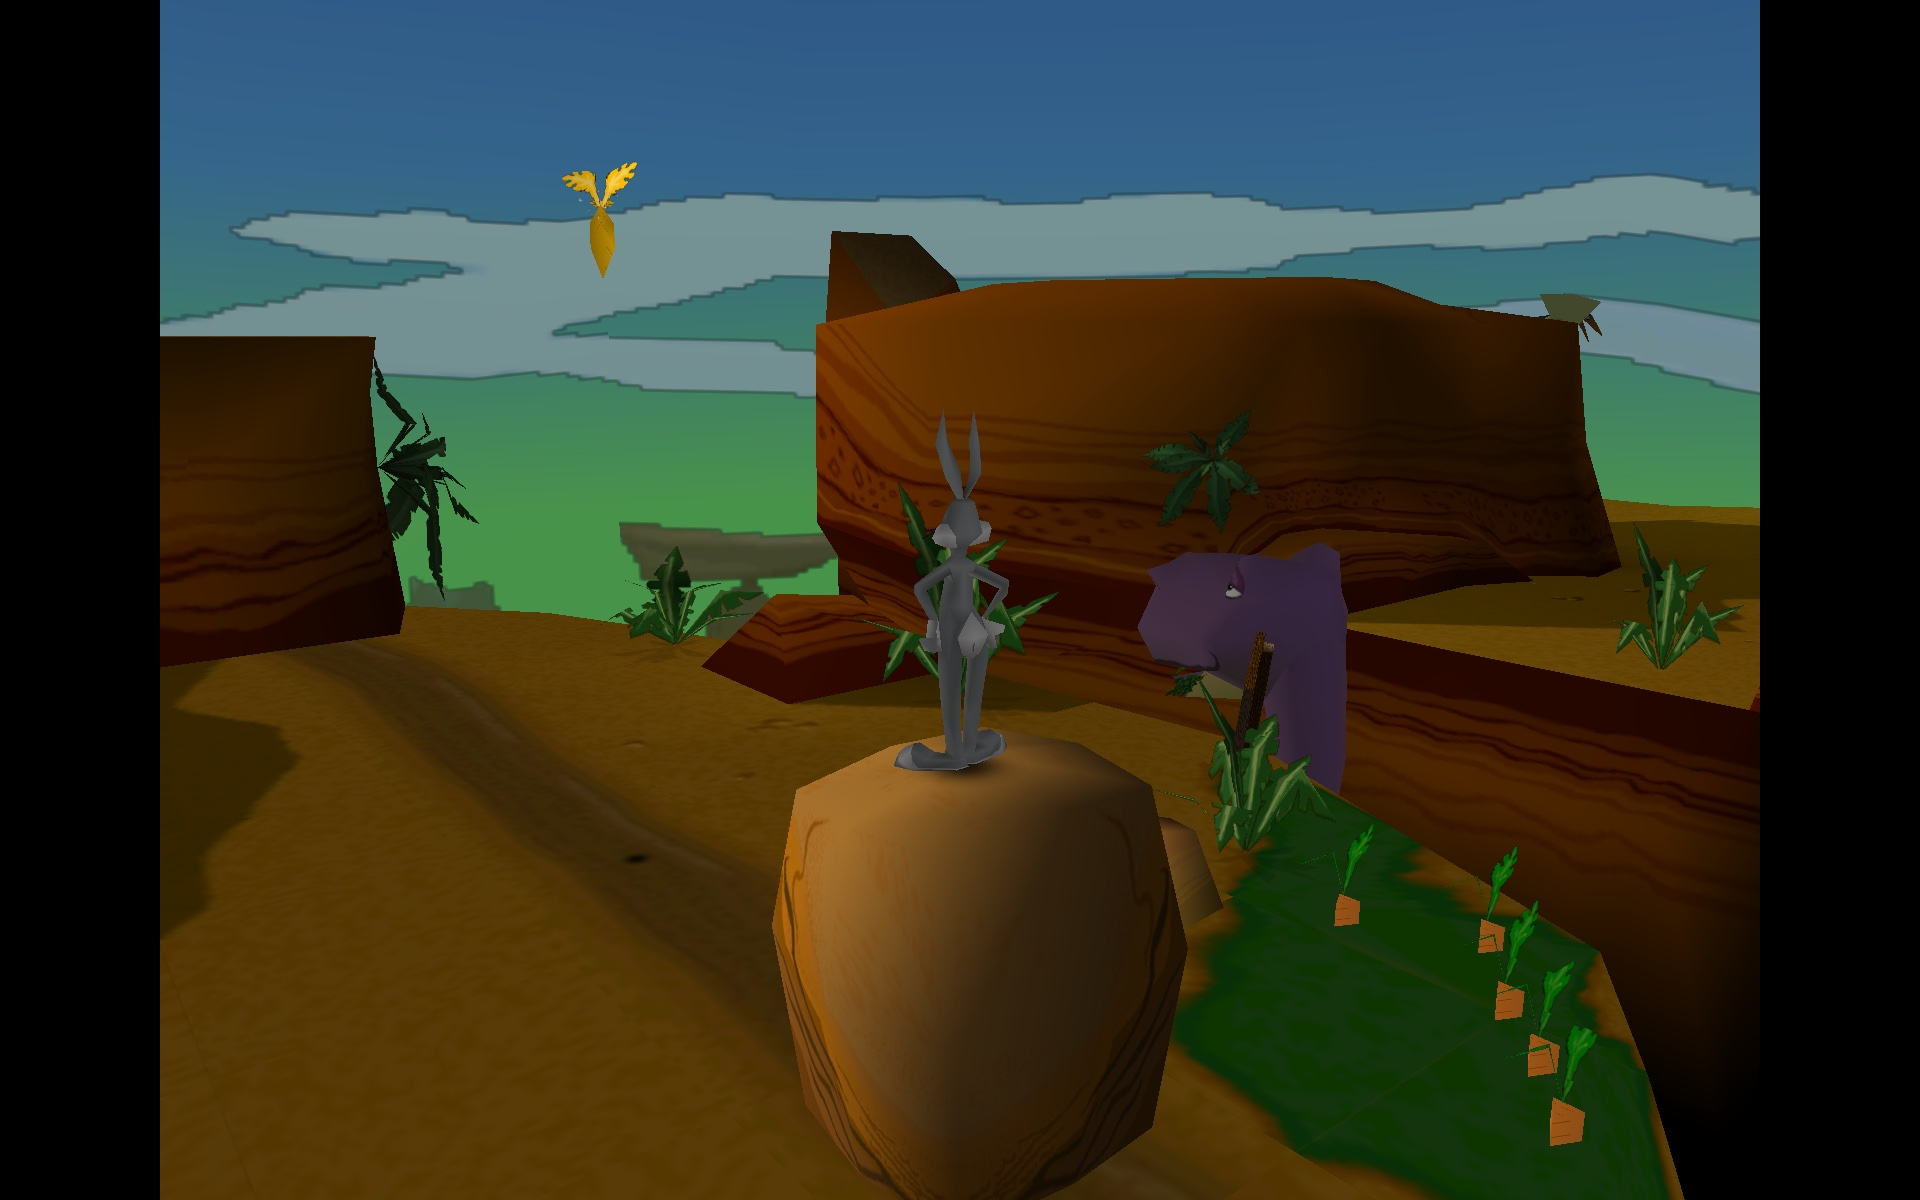
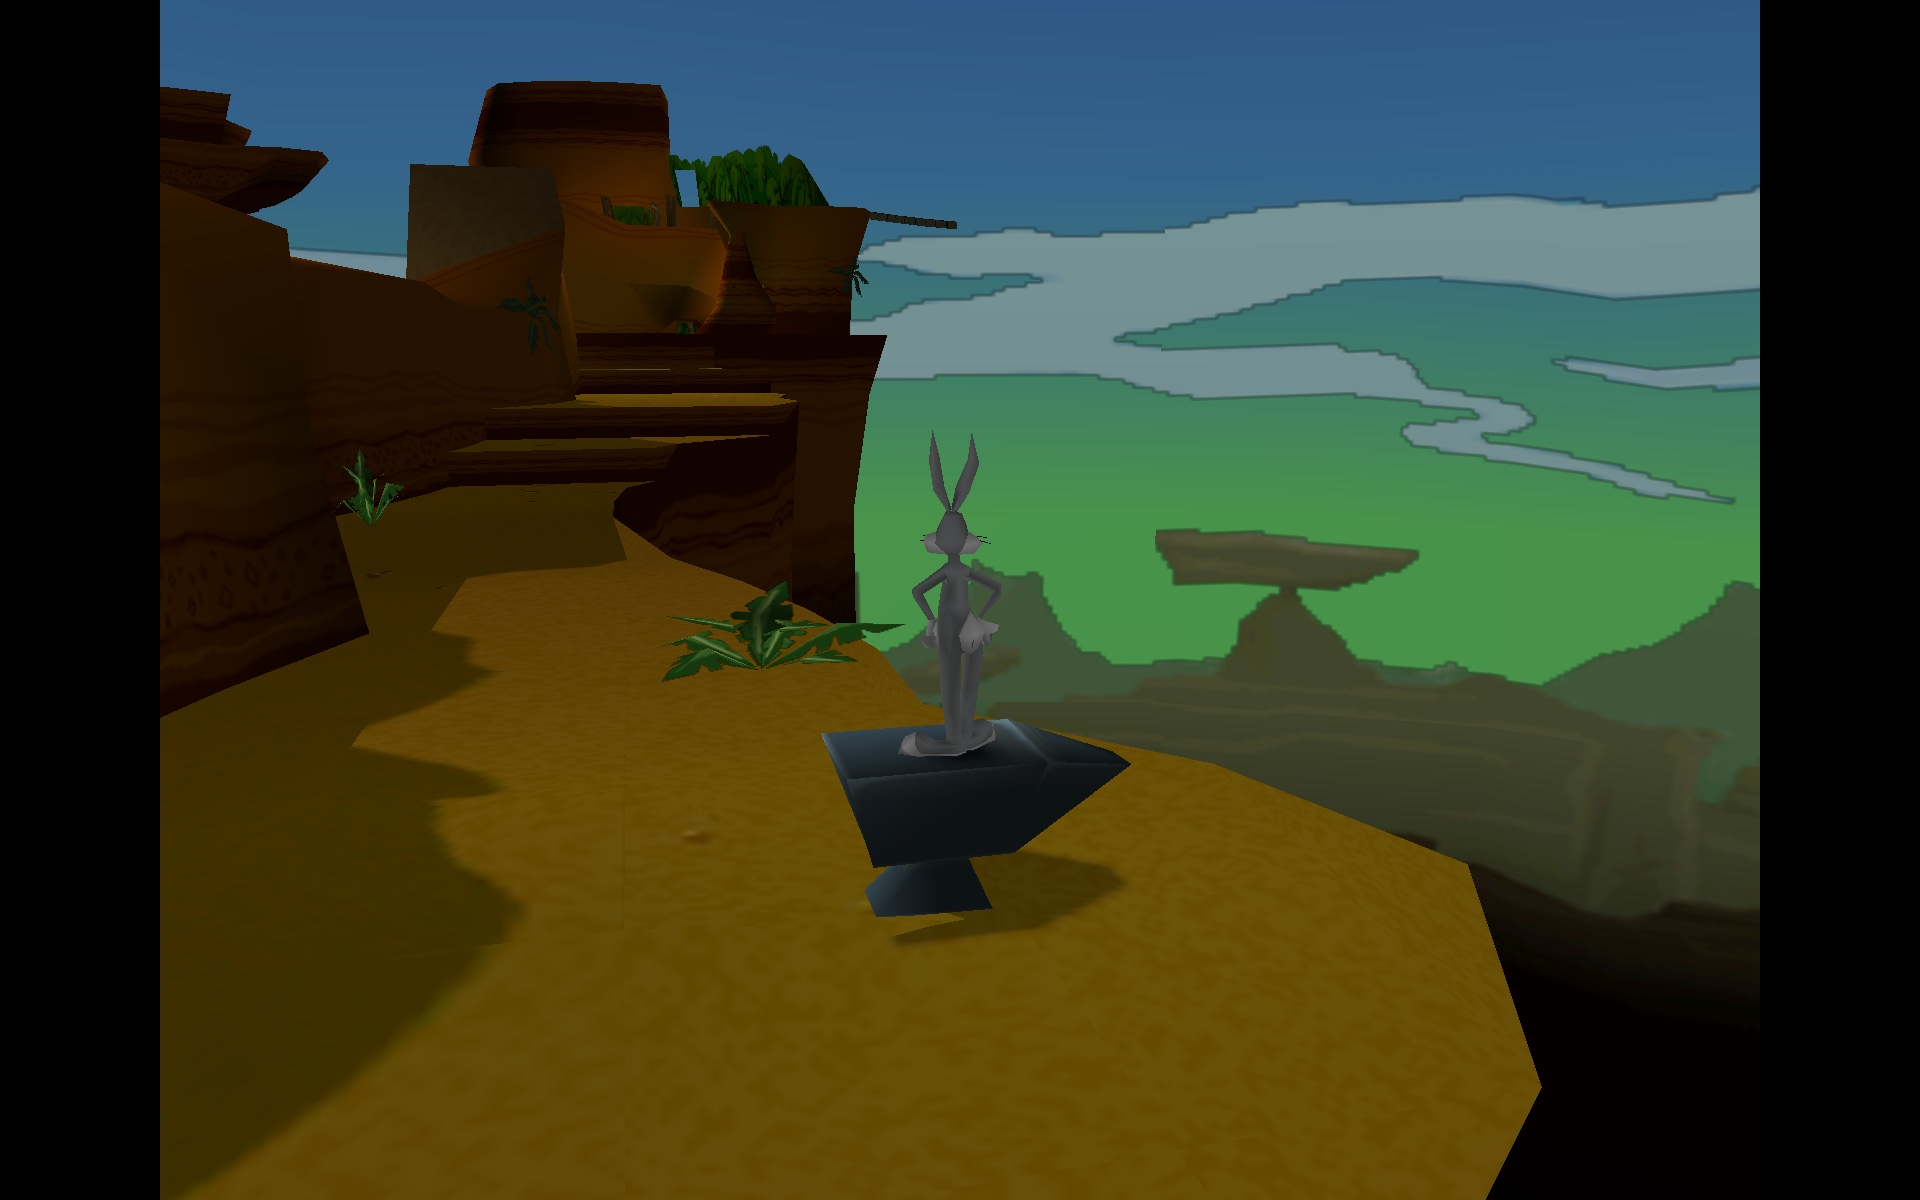
README: retake before/after with PS1 brightness

diff --git a/README.ru.md b/README.ru.md
@@ -10,7 +10,7 @@
 
 ## До и после
 
-«Wabbit on the run!», одно место и одна камера. Сверху — оригинал (4:3, родная дальность), снизу — BBLIT Remaster (широкий экран, дальность ×2, дымка у земли).
+«Wabbit on the run!», одно место и одна камера. Сверху — оригинал (4:3, родная дальность), снизу — BBLIT Remaster (широкий экран, дальность ×2, дымка у земли, яркость как на PS1).
 
 ![Оригинал](docs/l01a-original.jpg)
 ![BBLIT Remaster](docs/l01a-remaster.jpg)
@@ -146,7 +146,6 @@
 - При малом TDP в самых тяжёлых местах изредка (около раза в секунду) один кадр повторяется.
 - Windows не проверялся.
 - Поддерживается только `bugs.exe` 1.6 без патчей.
-- Снимки «до и после» сделаны до изменения яркости под PS1 (`ps1_light`).
 
 ## Сборка из исходников
 

diff --git a/README.md b/README.md
@@ -10,7 +10,7 @@ The mod is a single `ddraw.dll` plus a `remaster.ini` settings file. No game fil
 
 ## Before / after
 
-"Wabbit on the run!", same spot and camera. Top: the original (4:3, stock draw distance). Bottom: BBLIT Remaster (widescreen, 2× draw distance, ground haze).
+"Wabbit on the run!", same spot and camera. Top: the original (4:3, stock draw distance). Bottom: BBLIT Remaster (widescreen, 2× draw distance, ground haze, PS1 brightness).
 
 ![Original](docs/l01a-original.jpg)
 ![BBLIT Remaster](docs/l01a-remaster.jpg)
@@ -148,7 +148,6 @@ The main settings live in `BIN\remaster.ini` and are commented there. The `[live
 - At a low TDP, the heaviest scenes occasionally (about once per second) repeat one frame.
 - Windows is untested.
 - Only an unpatched `bugs.exe` 1.6 is supported.
-- The before/after screenshots were taken before the PS1 brightness change (`ps1_light`).
 
 ## Building from source
 
